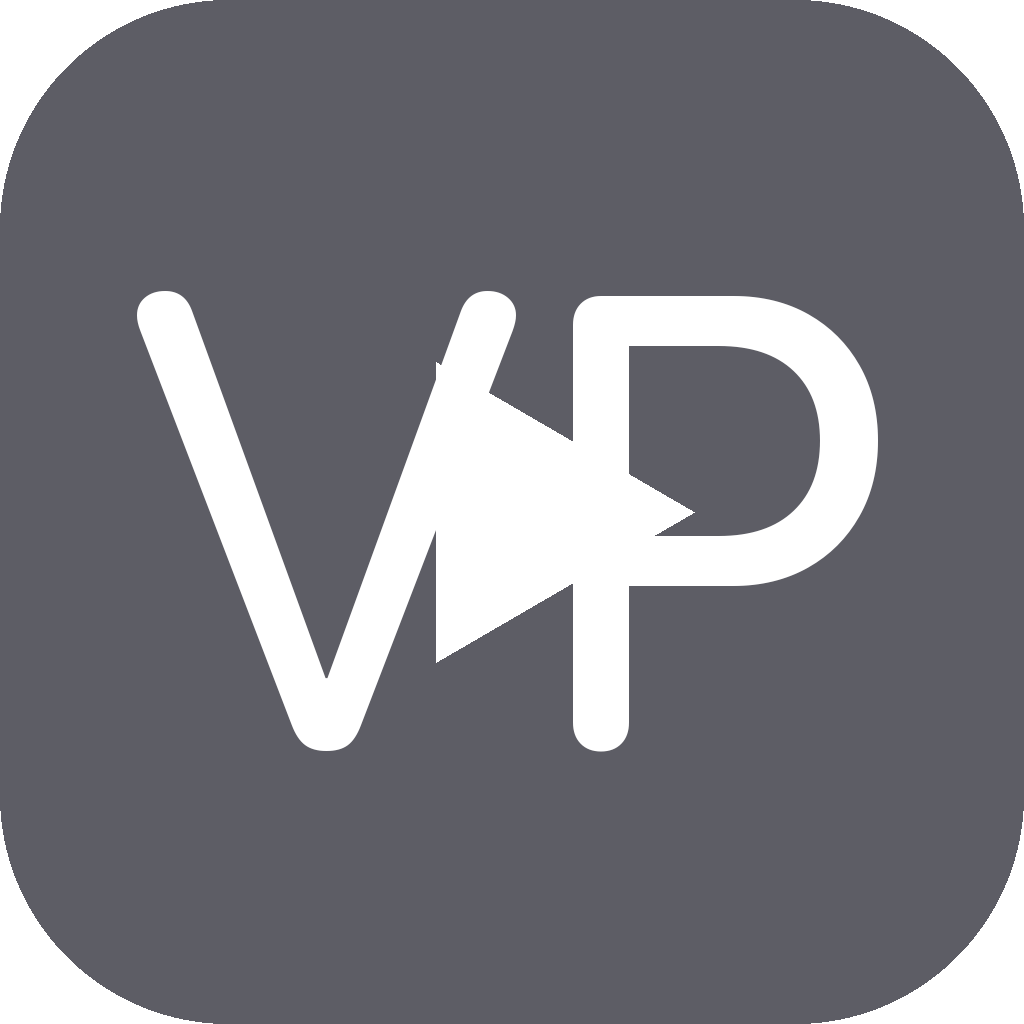
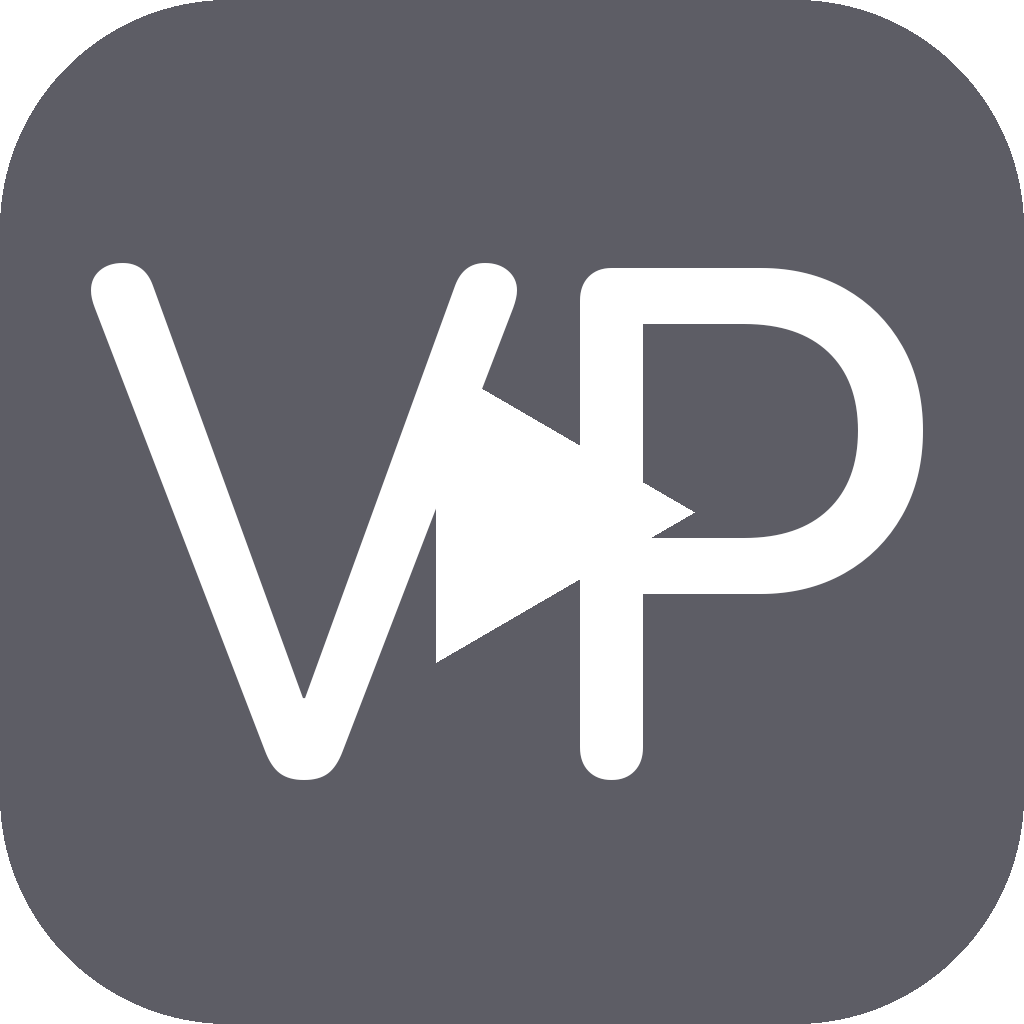
design: 图标 v5.2 — VP 字号 640→720

Changed region(s): [[0.5625, 0.25, 0.9062, 0.7812], [0.0938, 0.25, 0.5312, 0.7812], [0.4062, 0.5, 0.4375, 0.5625]]

diff --git a/scripts/generate-icon.py b/scripts/generate-icon.py
@@ -19,10 +19,10 @@ def create():
 
     # ── VP 文字 ────────────────────────────────────
     try:
-        font = ImageFont.truetype("/System/Library/Fonts/SFNSRounded.ttf", 640)
+        font = ImageFont.truetype("/System/Library/Fonts/SFNSRounded.ttf", 720)
     except:
         try:
-            font = ImageFont.truetype("/System/Library/Fonts/Helvetica.ttc", 640)
+            font = ImageFont.truetype("/System/Library/Fonts/Helvetica.ttc", 720)
         except:
             font = ImageFont.load_default()
 